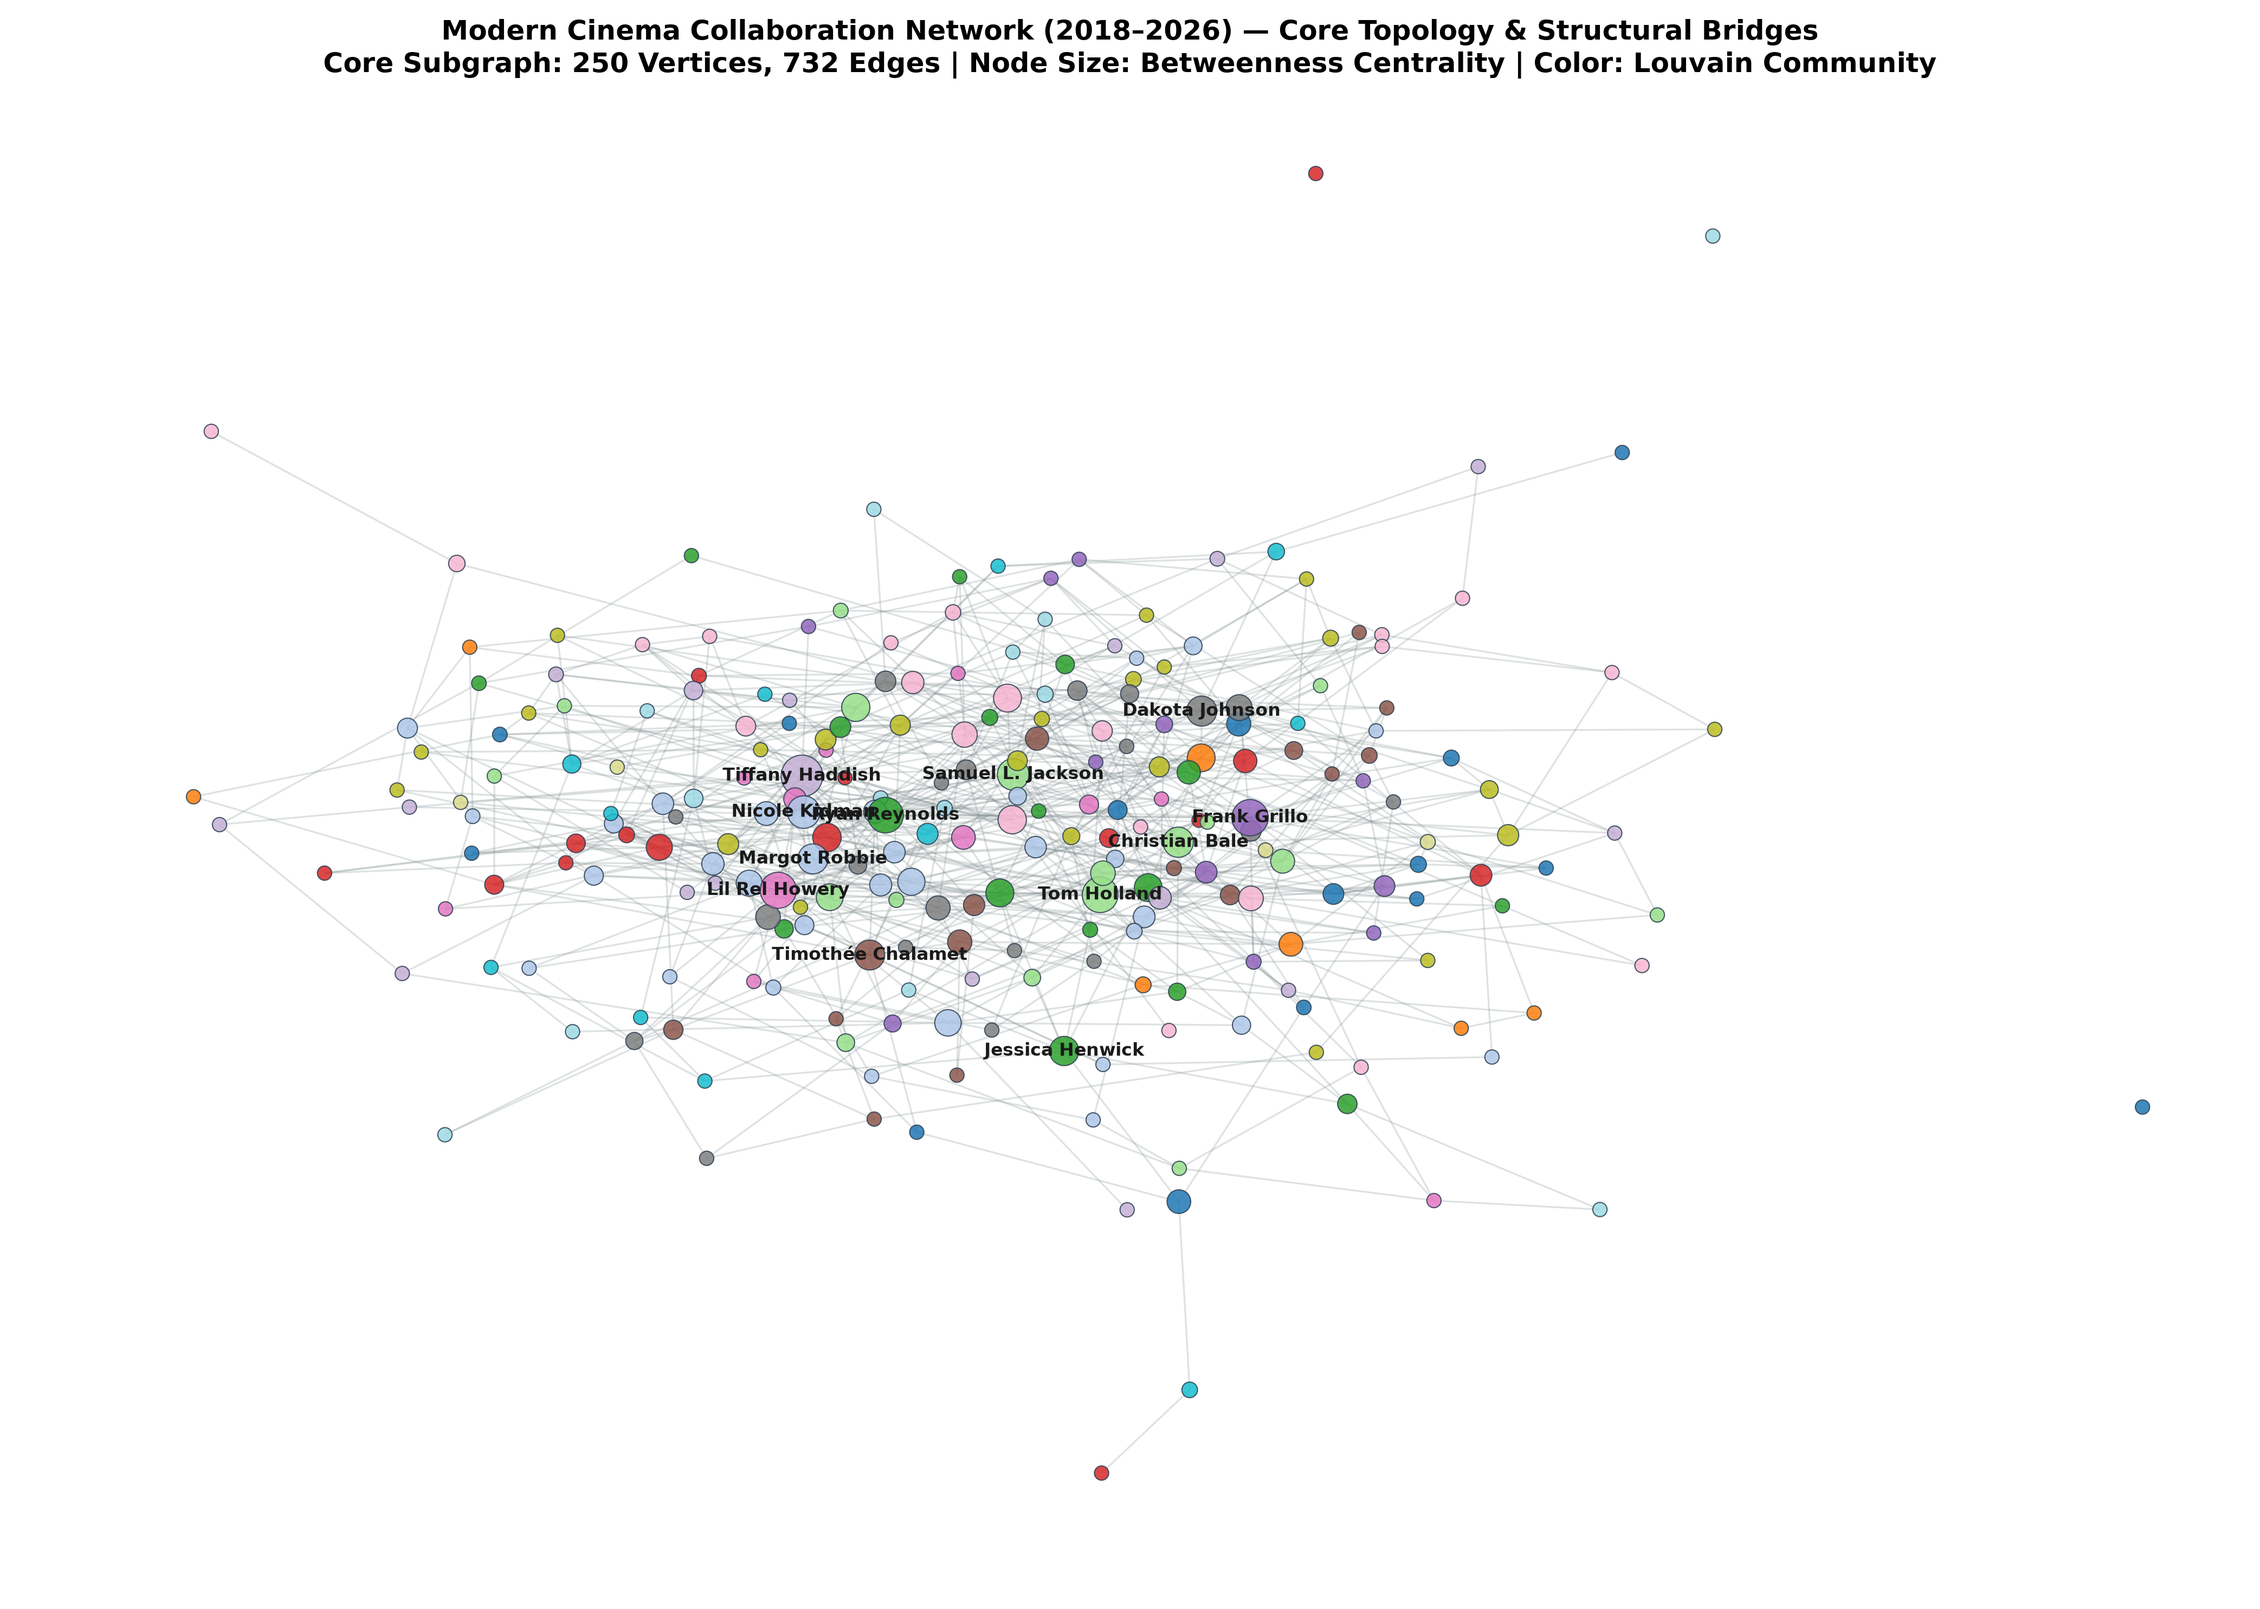
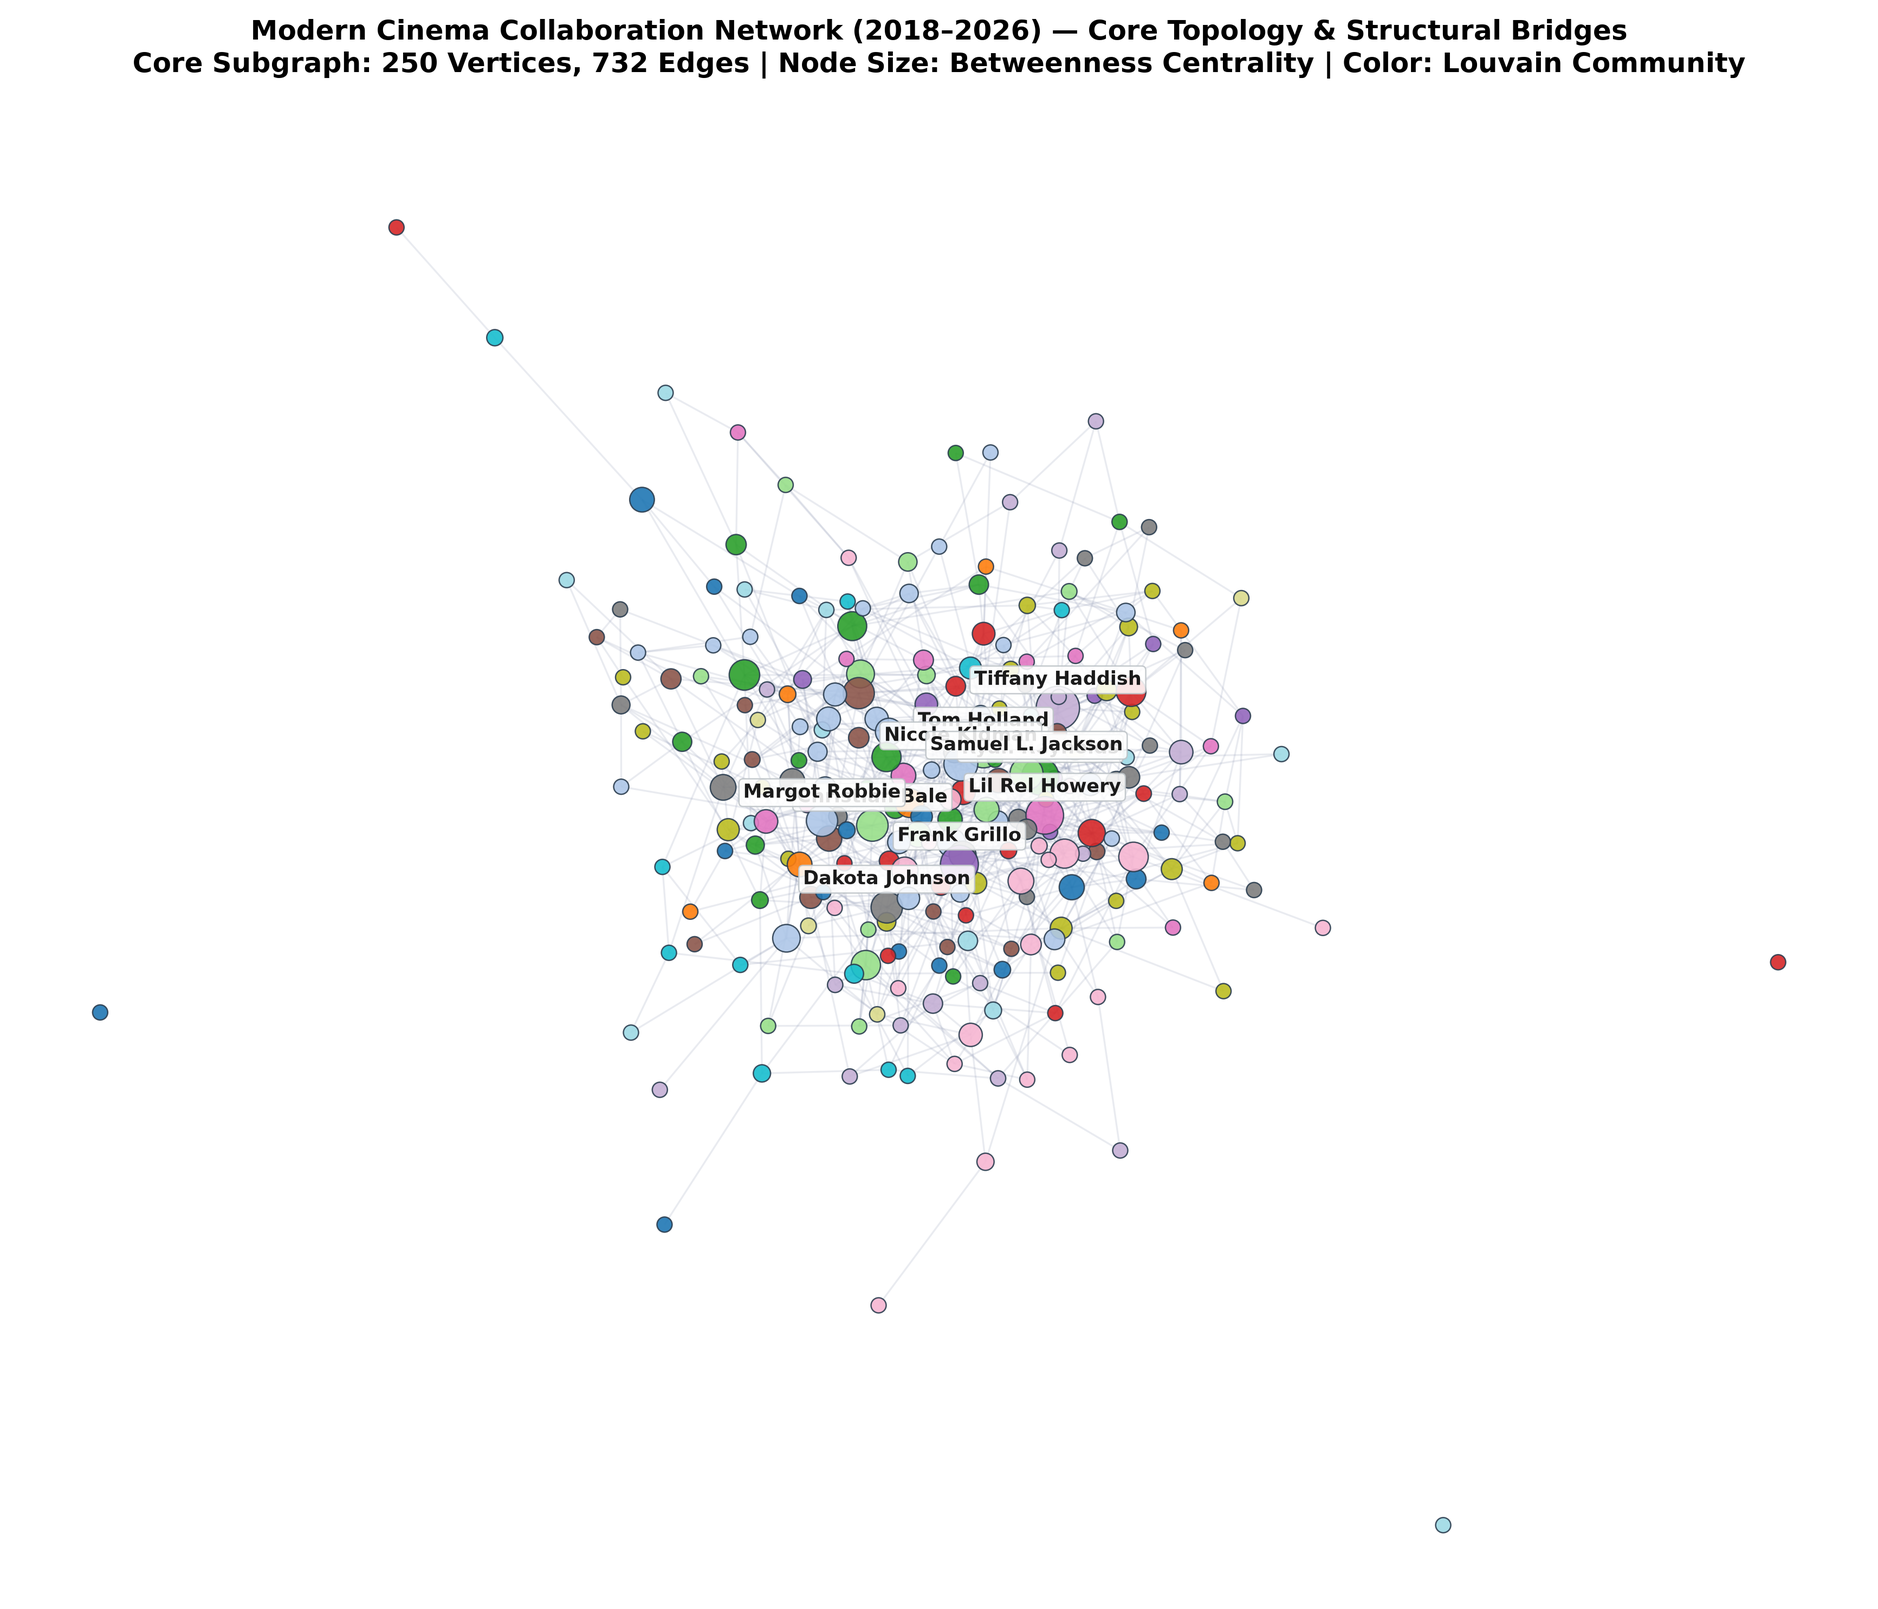
Improve network layout geometry, aspect ratio, and visual rendering

diff --git a/build_cinema_network.py b/build_cinema_network.py
@@ -375,34 +375,41 @@ def generate_visualizations(G, gcc, comms, gn_results, lp_results, output_dir=No
     core_nodes = [node for node, deg in sorted(gcc.degree(), key=lambda x: x[1], reverse=True)[:250]]
     core_subgraph = gcc.subgraph(core_nodes).copy()
     core_bc = nx.betweenness_centrality(core_subgraph)
-    node_sizes = [max(40, core_bc[n] * 6000) for n in core_subgraph.nodes()]
+    node_sizes = [max(45, core_bc[n] * 6500) for n in core_subgraph.nodes()]
     node_colors = [node_to_comm.get(n, 0) % 16 for n in core_subgraph.nodes()]
 
-    plt.figure(figsize=(14, 10), dpi=300)
-    pos = nx.spring_layout(core_subgraph, seed=42, k=0.18, iterations=50)
+    fig, ax = plt.subplots(figsize=(13, 10), dpi=300)
+    pos = nx.spring_layout(core_subgraph, seed=42, k=0.30, iterations=120)
+    ax.set_aspect("equal")
 
-    nx.draw_networkx_edges(core_subgraph, pos, alpha=0.25, edge_color="#7f8c8d", width=0.8)
+    nx.draw_networkx_edges(core_subgraph, pos, ax=ax, alpha=0.18, edge_color="#8892b0", width=0.8)
     nx.draw_networkx_nodes(
         core_subgraph,
         pos,
+        ax=ax,
         node_size=node_sizes,
         node_color=node_colors,
         cmap=plt.cm.tab20,
-        alpha=0.85,
+        alpha=0.90,
         edgecolors="#2c3e50",
-        linewidths=0.5
+        linewidths=0.6
     )
 
-    top_labeled = sorted(core_bc.items(), key=lambda x: x[1], reverse=True)[:12]
-    labels = {n: n for n, _ in top_labeled}
-    nx.draw_networkx_labels(core_subgraph, pos, labels=labels, font_size=8, font_weight="bold", font_color="#1a1a1a")
+    top_labeled = sorted(core_bc.items(), key=lambda x: x[1], reverse=True)[:10]
+    for n, _ in top_labeled:
+        x, y = pos[n]
+        ax.text(
+            x, y + 0.022, n,
+            fontsize=8.5, fontweight="bold", ha="center", va="bottom", color="#1a1a1a",
+            bbox=dict(boxstyle="round,pad=0.22", facecolor="white", edgecolor="#bdc3c7", alpha=0.88, linewidth=0.6)
+        )
 
     plt.title(
         "Modern Cinema Collaboration Network (2018–2026) — Core Topology & Structural Bridges\n"
         f"Core Subgraph: {core_subgraph.number_of_nodes()} Vertices, {core_subgraph.number_of_edges()} Edges | Node Size: Betweenness Centrality | Color: Louvain Community",
         fontsize=12, fontweight="bold", pad=15
     )
-    plt.axis("off")
+    ax.axis("off")
     plt.tight_layout()
     plt.savefig(fig1_path, dpi=300, bbox_inches="tight")
     plt.savefig(fig1_alt_path, dpi=300, bbox_inches="tight")
@@ -420,8 +427,10 @@ def generate_visualizations(G, gcc, comms, gn_results, lp_results, output_dir=No
     critical_edges = gn_results["critical_edges"]
     final_comps = list(nx.connected_components(sub))
 
-    fig, axes = plt.subplots(1, 2, figsize=(20, 9), dpi=300)
-    pos_c0 = nx.spring_layout(c0, seed=42, k=0.22, iterations=80)
+    fig, axes = plt.subplots(1, 2, figsize=(16, 8.5), dpi=300)
+    pos_c0 = nx.spring_layout(c0, seed=42, k=0.28, iterations=100)
+    axes[0].set_aspect("equal")
+    axes[1].set_aspect("equal")
 
     # Panel A: Before Partitioning
     axes[0].set_title(
@@ -430,17 +439,22 @@ def generate_visualizations(G, gcc, comms, gn_results, lp_results, output_dir=No
         fontsize=11, fontweight="bold", pad=12
     )
     non_crit = [e for e in c0.edges() if tuple(sorted(e)) not in [tuple(sorted(x)) for x in critical_edges]]
-    nx.draw_networkx_edges(c0, pos_c0, edgelist=non_crit, ax=axes[0], alpha=0.3, edge_color="#7f8c8d", width=1.0)
+    nx.draw_networkx_edges(c0, pos_c0, edgelist=non_crit, ax=axes[0], alpha=0.22, edge_color="#8892b0", width=1.0)
     crit_pres = [e for e in c0.edges() if tuple(sorted(e)) in [tuple(sorted(x)) for x in critical_edges]]
-    nx.draw_networkx_edges(c0, pos_c0, edgelist=crit_pres, ax=axes[0], edge_color="#e74c3c", width=3.0, style="dashed")
-    nx.draw_networkx_nodes(c0, pos_c0, ax=axes[0], node_size=75, node_color="#3498db", edgecolors="#1b4f72", linewidths=0.5)
+    nx.draw_networkx_edges(c0, pos_c0, edgelist=crit_pres, ax=axes[0], edge_color="#e74c3c", width=3.2, style="dashed")
+    nx.draw_networkx_nodes(c0, pos_c0, ax=axes[0], node_size=85, node_color="#3498db", edgecolors="#1b4f72", linewidths=0.6, alpha=0.90)
 
     labeled_actors = set()
     for u, v in critical_edges:
         labeled_actors.add(u)
         labeled_actors.add(v)
-    labels_crit = {n: n for n in labeled_actors}
-    nx.draw_networkx_labels(c0, pos_c0, labels=labels_crit, ax=axes[0], font_size=8, font_weight="bold", font_color="#2c3e50")
+    for n in labeled_actors:
+        x, y = pos_c0[n]
+        axes[0].text(
+            x, y + 0.028, n,
+            fontsize=8, fontweight="bold", ha="center", va="bottom", color="#2c3e50",
+            bbox=dict(boxstyle="round,pad=0.2", facecolor="white", edgecolor="#bdc3c7", alpha=0.85, linewidth=0.5)
+        )
     axes[0].axis("off")
 
     # Panel B: After Divisive Removal
@@ -455,9 +469,15 @@ def generate_visualizations(G, gcc, comms, gn_results, lp_results, output_dir=No
             node_comp_map[n] = cid
 
     colors_sub = [node_comp_map[n] for n in sub.nodes()]
-    nx.draw_networkx_edges(sub, pos_c0, ax=axes[1], alpha=0.3, edge_color="#7f8c8d", width=1.0)
-    nx.draw_networkx_nodes(sub, pos_c0, ax=axes[1], node_size=85, node_color=colors_sub, cmap=plt.cm.tab10, edgecolors="#2c3e50", linewidths=0.5)
-    nx.draw_networkx_labels(sub, pos_c0, labels=labels_crit, ax=axes[1], font_size=8, font_weight="bold", font_color="#1a1a1a")
+    nx.draw_networkx_edges(sub, pos_c0, ax=axes[1], alpha=0.22, edge_color="#8892b0", width=1.0)
+    nx.draw_networkx_nodes(sub, pos_c0, ax=axes[1], node_size=90, node_color=colors_sub, cmap=plt.cm.tab10, edgecolors="#2c3e50", linewidths=0.6, alpha=0.90)
+    for n in labeled_actors:
+        x, y = pos_c0[n]
+        axes[1].text(
+            x, y + 0.028, n,
+            fontsize=8, fontweight="bold", ha="center", va="bottom", color="#1a1a1a",
+            bbox=dict(boxstyle="round,pad=0.2", facecolor="white", edgecolor="#bdc3c7", alpha=0.85, linewidth=0.5)
+        )
     axes[1].axis("off")
 
     plt.tight_layout()
